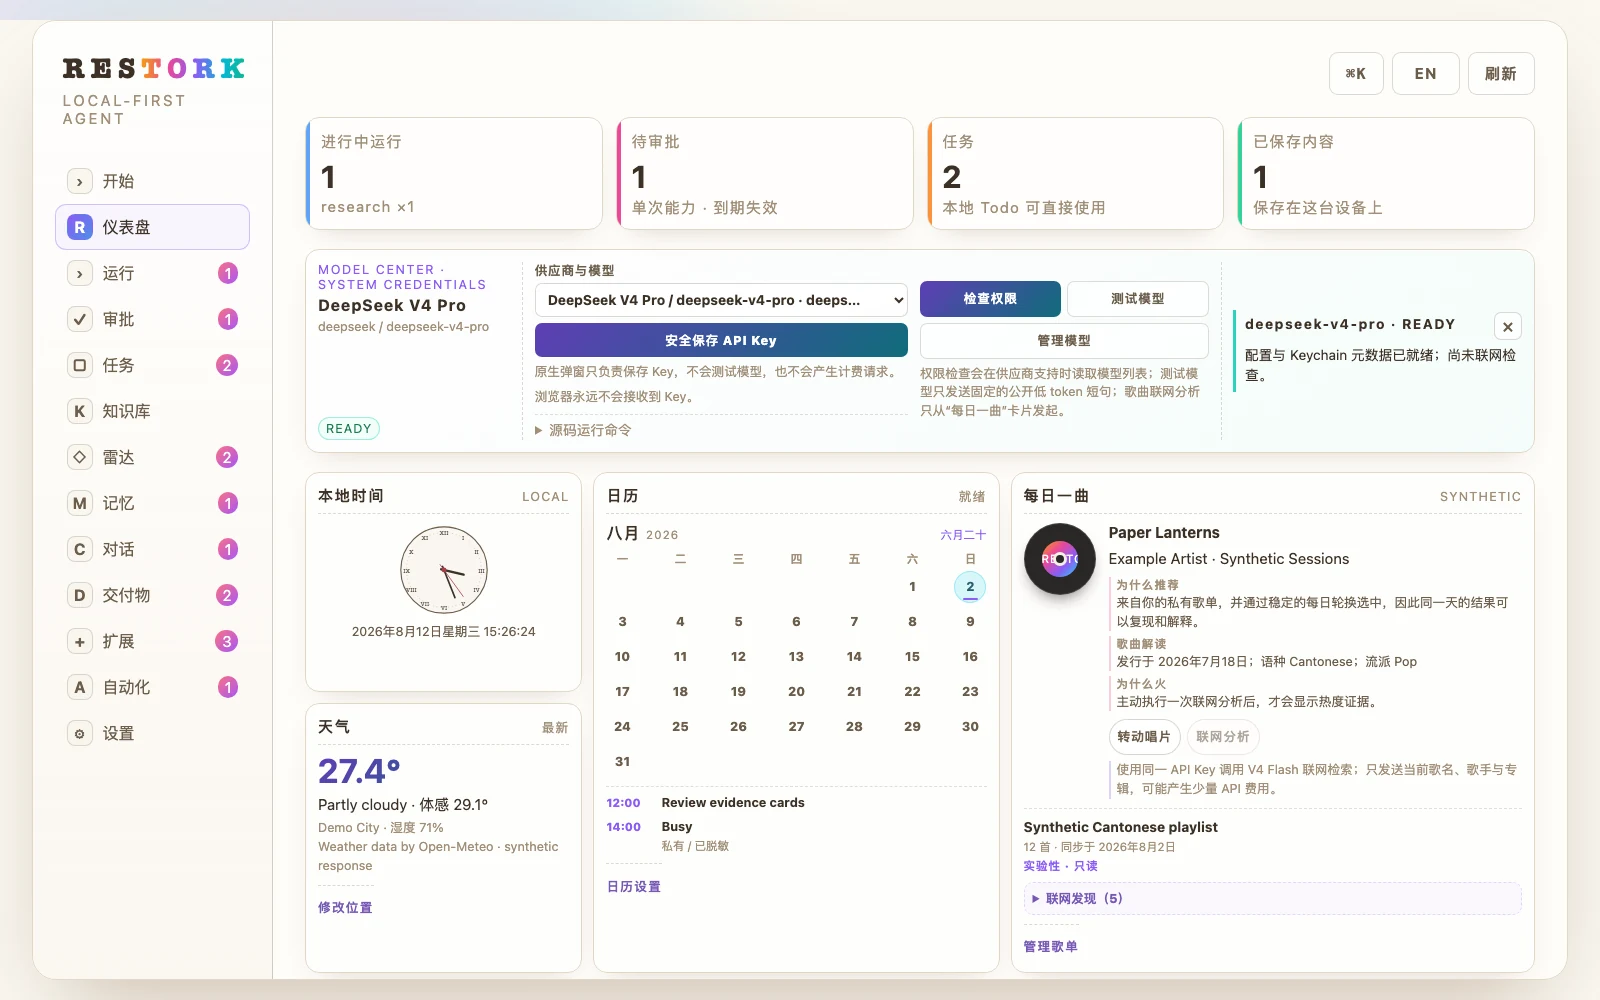
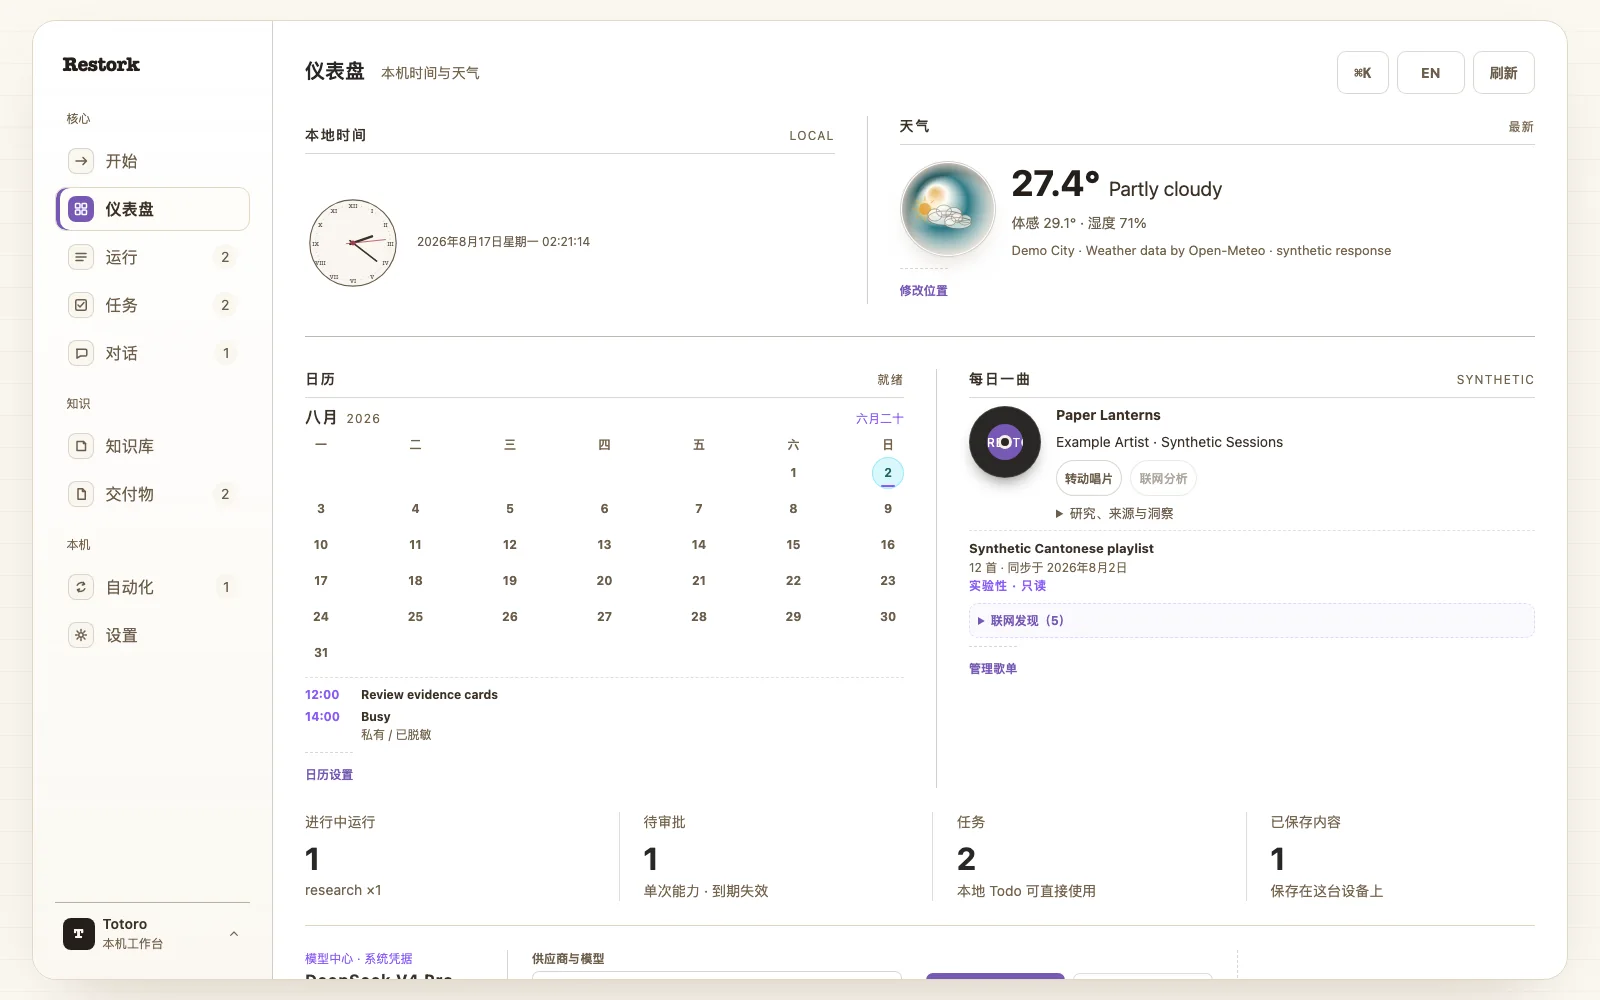
site: refresh walkthrough media to the current v4 shell (#115)
* site: refresh walkthrough media to the current v4 shell

The poster, walkthrough GIF, and social previews still showed the
pre-fidelity shell (stat chips, model center panel, plain weather). Retake
all six assets from the current light theme: circular sky instrument,
serif wordmark, calm CJK labels, card-based runs/approvals/deliverables.
GIF drops from 6.3 MB to 0.58 MB per locale (4 long-hold frames).

Also stop hardcoding the Alpha tag in the site contract test: derive the
tag from the hero markup and require both locales and all three download
links to agree, so the automated site-sync PR no longer breaks CI.

* site: embed required locale markers in walkthrough GIFs

diff --git a/scripts/tests/test_site_h2.py b/scripts/tests/test_site_h2.py
@@ -10,11 +10,21 @@ from pathlib import Path
 ROOT = Path(__file__).resolve().parents[2]
 SITE = ROOT / "site"
 
-DOWNLOADS = {
-    "macOS": "Restork-0.1.5-alpha.3-macOS-arm64-UNSIGNED-ALPHA.dmg",
-    "Windows": "Restork-0.1.5-alpha.3-Windows-x64-UNSIGNED-ALPHA-setup.exe",
-    "Linux": "Restork-0.1.5-alpha.3-Linux-x64-UNSIGNED-ALPHA.AppImage",
+TAG_PATTERN = r"v[0-9]+\.[0-9]+\.[0-9]+-alpha\.[0-9]+"
+
+PLATFORMS = {
+    "macOS": "macOS-arm64-UNSIGNED-ALPHA.dmg",
+    "Windows": "Windows-x64-UNSIGNED-ALPHA-setup.exe",
+    "Linux": "Linux-x64-UNSIGNED-ALPHA.AppImage",
 }
+
+
+def hero_tag(html: str) -> str:
+    """Read the preview tag the hero currently advertises."""
+    match = re.search(rf"<strong>({TAG_PATTERN})</strong>", html)
+    if match is None:
+        raise AssertionError("hero release note does not name a preview tag")
+    return match.group(1)
 
 
 class SiteH2ContractTests(unittest.TestCase):
@@ -29,10 +39,19 @@ class SiteH2ContractTests(unittest.TestCase):
             hero = re.search(r'<section[^>]+class="hero"[\s\S]+?</section>', html)
             self.assertIsNotNone(hero, locale)
             hero_html = hero.group(0)
-            for platform, asset in DOWNLOADS.items():
+            tag = hero_tag(hero_html)
+            version = tag.lstrip("v")
+            for platform, suffix in PLATFORMS.items():
                 with self.subTest(locale=locale, platform=platform):
-                    self.assertIn(asset, hero_html)
-            self.assertIn("v0.1.5-alpha.3", hero_html)
+                    self.assertIn(
+                        f"releases/download/{tag}/Restork-{version}-{suffix}",
+                        hero_html,
+                    )
+            self.assertIn(f"releases/tag/{tag}", hero_html)
+
+    def test_locales_point_at_the_same_preview_tag(self) -> None:
+        tags = {locale: hero_tag(html) for locale, html in self.pages.items()}
+        self.assertEqual(tags["en"], tags["zh-CN"])
 
     def test_narrative_is_four_ordered_steps_not_feature_card_grids(self) -> None:
         for locale, html in self.pages.items():
